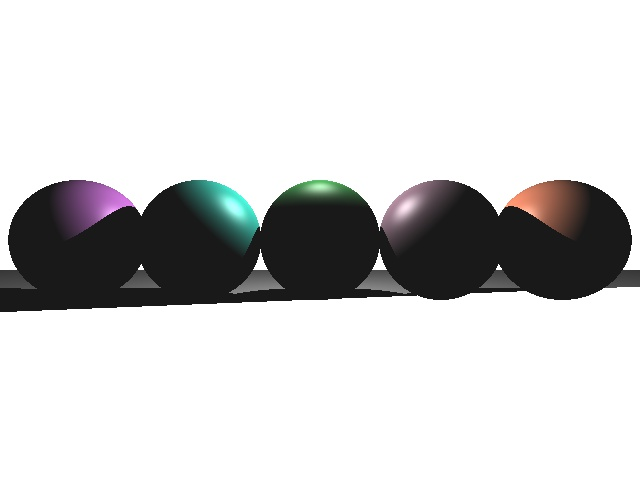
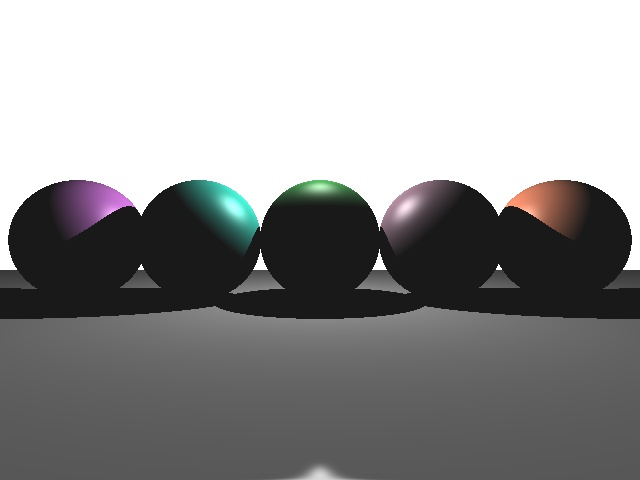
finish regular

diff --git a/hw3-starterCode/hw3.cpp b/hw3-starterCode/hw3.cpp
@@ -77,11 +77,11 @@ struct Ray{
 
 struct Vertex
 {
-    glm::dvec3 position;
-    glm::dvec3 color_diffuse;
-    glm::dvec3 color_specular;
-    glm::dvec3 normal;
-    double shininess;
+    glm::dvec3 position = glm::dvec3(0.0, 0.0, 0.0);
+    glm::dvec3 color_diffuse=glm::dvec3(0.0, 0.0, 0.0);
+    glm::dvec3 color_specular= glm::dvec3(0.0, 0.0, 0.0);
+    glm::dvec3 normal = glm::dvec3(0.0, 0.0, 0.0);
+    double shininess = 0.0;
 };
 
 struct Triangle
@@ -172,10 +172,6 @@ solving this linear equation we get:
     yamma=1-alpha-beta
 */
 bool point_in_triangle(double x, double y, double x0, double y0, double x1, double y1, double x2, double y2, double area, glm::dvec3& barycentric) {
-    //printf("p = (%f,%f)\n", x, y);
-    //printf("p0 = (%f,%f)\n", x0, y0);
-    //printf("p1 = (%f,%f)\n", x1, y1);
-    //printf("p2 = (%f,%f)\n", x2, y2);
     x -= x2, x0 -= x2, x1 -= x2;
     y -= y2, y0 -= y2, y1 -= y2;
     if (abs(area) < epsilon) {
@@ -206,13 +202,10 @@ void ray_triangle_intersect(Ray& r, double& t, int& t_num, glm::dvec3 &barycentr
             continue;
         }
         t0 = -(glm::dot(triangles[i].normal, r.origin) + triangles[i].d) / dot_nd;
-        //printf("i = %d\n", i);
-        //printf("t0 = %f\n",t0);
         if (t0 < epsilon || t0 >= t) {
             continue;
         }
         intersect_point = r.origin + t0 * r.direction;
-        //printf("intersect point = %f %f %f\n", intersect_point.x, intersect_point.y, intersect_point.z);
         if (!point_in_triangle(intersect_point[triangles[i].projVec[0]], intersect_point[triangles[i].projVec[1]], 
             triangles[i].v[0].position[triangles[i].projVec[0]], triangles[i].v[0].position[triangles[i].projVec[1]],
             triangles[i].v[1].position[triangles[i].projVec[0]], triangles[i].v[1].position[triangles[i].projVec[1]],
@@ -221,7 +214,6 @@ void ray_triangle_intersect(Ray& r, double& t, int& t_num, glm::dvec3 &barycentr
             tmpBarycentric)) {
             continue;
         }
-        //printf("barycentric = %f %f %f\n", tmpBarycentric.x, tmpBarycentric.y, tmpBarycentric.z);
         t = t0;
         t_num = i;
         barycentric = tmpBarycentric;
@@ -242,8 +234,6 @@ bool is_intersect(Ray &r, bool is_shadow_ray,double max_t,Vertex &intersect_poin
     if (s_num == -1 && t_num == -1) {
         return false;
     }
-    //printf("s_num = %d\nt_num = %d\n", s_num, t_num);
-    //printf("t0 = %f\nt1 = %f\n", t0, t1);
     if (!is_shadow_ray) {
         if (t_num == -1 || (s_num != -1 && t0 < t1)) {
             intersect_point.position = r.origin + t0 * r.direction;
@@ -260,21 +250,19 @@ bool is_intersect(Ray &r, bool is_shadow_ray,double max_t,Vertex &intersect_poin
                 intersect_point.normal += barycentric[i] * triangles[t_num].v[i].normal;
                 intersect_point.shininess += barycentric[i] * triangles[t_num].v[i].shininess;
             }
-            glm::normalize(intersect_point.normal);
+            glm::dvec3 pos(0.0, 0.0, 0.0);
+            intersect_point.normal = glm::normalize(intersect_point.normal);
         }
     }
     return true;
 }
 
-glm::dvec3 is_shadow_ray(glm::dvec3 V, Vertex intersect_point) {
+glm::dvec3 cast_shadow_ray(glm::dvec3 V, Vertex intersect_point) {
     glm::dvec3 col(0.0, 0.0, 0.0);
     for (int i = 0; i < num_lights; i++) {
         Ray light_ray;
         light_ray.origin = intersect_point.position;
         light_ray.direction = glm::normalize(lights[i].position - intersect_point.position);
-        //printf("Light ray origin = %f %f %f\n", intersect_point.position.x, intersect_point.position.y, intersect_point.position.z);
-        //printf("Light ray direction = ");
-        //for (int j = 0; j < 3; j++) printf("%f ", light_ray.direction[j]); printf("\n");
         if (is_intersect(light_ray, true, glm::length(lights[i].position-intersect_point.position))) {
             continue;
         }
@@ -300,7 +288,6 @@ glm::dvec3 get_color(double x, double y) {
     * 
     Does the origin really 000 ?
     */
-    //printf("       direct = %f %f\n", x, y);
     Ray r;
     r.origin = glm::dvec3(0.0, 0.0, 0.0); 
     r.direction = glm::normalize(glm::dvec3(x, y, -1.0));
@@ -309,10 +296,7 @@ glm::dvec3 get_color(double x, double y) {
     if (!is_intersect(r, false, infinity, intersect_point)) {
         return colorBackground;
     }
-    //printf("        Cast ray\n");
-    //printf("        Cast ray intersect_point = ");
-    //for (int i = 0; i < 3; i++) printf("%f ", intersect_point.position[i]); printf("\n");
-    glm::dvec3 col=is_shadow_ray(-r.direction,intersect_point);
+    glm::dvec3 col=cast_shadow_ray(-r.direction,intersect_point);
     return col;
 }
 
@@ -323,22 +307,7 @@ void draw_scene()
     double dx=2.0*tan(fov/2.0)* aspect_ratio /(1.0*WIDTH), dy = 2.0*tan(fov/2.0)/(1.0*HEIGHT);
     xMin += dx / 2.0, yMin += dy / 2.0;
 
-    //for (unsigned int x = 170; x < 180; x++)
-    //{
-    //    glPointSize(2.0);
-    //    glBegin(GL_POINTS);
-    //    for (unsigned int y = 420; y < 435; y++)
-    //    {
-    //        glm::dvec3 col = get_color(xMin + dx * x, yMin + dy * y) + ambient_light;
-    //        for (int i = 0; i < 3; i++) {
-    //            col[i] = max(min(col[i], 1.0), 0.0);
-    //        }
-    //        plot_pixel(x, y, int(col.r * 255.0), int(col.g * 255.0), int(col.b * 255.0));
-    //        //Sleep(100000000);
-    //    }
-    //    glEnd();
-    //    glFlush();
-    //}
+    double current_time = glutGet(GLUT_ELAPSED_TIME) * 0.001;
 
     for(unsigned int x=0; x<WIDTH; x++)
     {
@@ -355,6 +324,9 @@ void draw_scene()
         glEnd();
         glFlush();
     }
+
+    current_time = glutGet(GLUT_ELAPSED_TIME) * 0.001 - current_time;
+    printf("Cost time: %f s\n", current_time);
     printf("Done!\n"); fflush(stdout);
 }
 
@@ -537,10 +509,10 @@ void initTriangle() {
         t.normal = glm::normalize(glm::cross(t.v[2].position - t.v[0].position, t.v[1].position - t.v[0].position));
         t.d = -glm::dot(t.normal, t.v[0].position);
         // Do the projection on the plane, there must be one of the triangles[i].normal that larger than 0.5
-        if (t.normal.x > 0.5) {
+        if (abs(t.normal.x) > 0.5) {
             t.projVec[0] = 1, t.projVec[1] = 2;
         }
-        else if (t.normal.y > 0.5) {
+        else if (abs(t.normal.y) > 0.5) {
             t.projVec[0] = 0, t.projVec[1] = 2;
         }
         else {
@@ -548,12 +520,6 @@ void initTriangle() {
         }
         t.area = (t.v[0].position[t.projVec[0]] - t.v[2].position[t.projVec[0]]) * (t.v[1].position[t.projVec[1]] - t.v[2].position[t.projVec[1]]) -
             (t.v[1].position[t.projVec[0]] - t.v[2].position[t.projVec[0]]) * (t.v[0].position[t.projVec[1]] - t.v[2].position[t.projVec[1]]);
-        //printf("pos0 : "); for (int j = 0; j < 3; j++) printf("%f ", t.v[0].position[j]); printf("\n");
-        //printf("pos1 : "); for (int j = 0; j < 3; j++) printf("%f ", t.v[1].position[j]); printf("\n");
-        //printf("pos2 : "); for (int j = 0; j < 3; j++) printf("%f ", t.v[2].position[j]); printf("\n");
-        //printf("area = %f\n", t.area);
-        //printf("normal = %f %f %f\n", t.normal.x, t.normal.y, t.normal.z);
-        //printf("projVec = %d %d\n", t.projVec[0], t.projVec[1]);
     }
 }
 
@@ -588,4 +554,5 @@ int main(int argc, char ** argv)
     init();
     glutMainLoop();
 }
+
 
